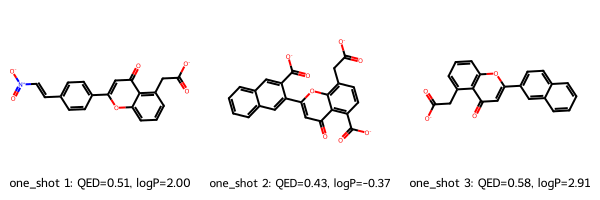
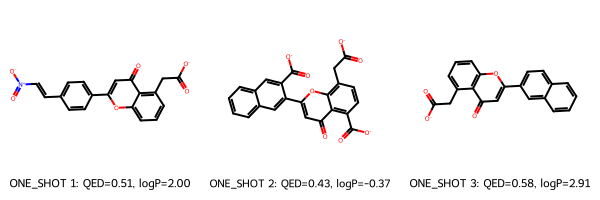
made summary tables, added HL data

Changed region(s): [[0.0, 0.87, 0.99, 0.96]]

diff --git a/code/HL_finalist_images.py b/code/HL_finalist_images.py
@@ -19,12 +19,28 @@ def scoring_function(smiles: str):
 
   return qed, alogp, mol
 
+## order openai, anthropic, gemini for zero and one shots
+
+zero_shot = ['CN(C)c1ccc(/C=C/C=C/C(=C(C#N)C#N))cc1',
+             'C1=C(S1)C2=C(SC(=C2)S3CCCS3)S4CCCS4',
+             'c1ccc2cc3cc4cc5cc6cc7ccccc7cc6cc5cc4cc3cc2c1']
+
 one_shot = ['N#CC=CCc1ccc2cccc3ccc1c23',
             'c1cc2ccc3cccc4cccc5cccc(c1)c2c3c45',
             'c1ccc2cc3cc4cc5ccccc5cc4cc3cc2c1'
                    ]
 
-#claude = []
+ant_smiles = [
+        'c1(OC)c(N(C)c1c(N(C(C)C)C)c(C#N)c(C(=O)C#N)cc1)cc2cc(C(=O)C(C#N)(C#N))ccc2c1',
+        'c1(OC)c(N(C)c1cc(C#N)c(C(=O)C#N)cc1)cc2cc(C(=O)C(C#N)(C#N))cc(N(C(C)C)C)c2c1',
+        'c1(OC)c(N(C)c1cc(C#N)c(C(=O)C#N)cc1)cc2cc(C(=O)C(C#N)(C#N))cc(OC)c2c1'
+]
+
+corrected_ant_smiles = [
+        'c1(OC)c(N(C)c6c(N(C(C)C)C)c(C#N)c(C(=O)C#N)cc6)cc2cc(C(=O)C(C#N)(C#N))ccc2c1',
+        'c1(OC)c(N(C)c6cc(C#N)c(C(=O)C#N)cc6)cc2cc(C(=O)C(C#N)(C#N))cc(N(C(C)C)C)c2c1',
+        'c1(OC)c(N(C)c6cc(C#N)c(C(=O)C#N)cc6)cc2cc(C(=O)C(C#N)(C#N))cc(OC)c2c1'
+]
              
 gemini3flash = [
         'c1ccc2cc3cc4c(S([NH3+]))c(S([NH3+]))c5c(S([NH3+]))c(S([NH3+]))c6c(S([NH3+]))c(S([NH3+]))c7c([N+](=O)[O-])cc8cc9cc%10ccccc%10cc9cc8cc7cc6cc5cc4cc3cc2c1',
@@ -37,9 +53,13 @@ gpt5p2 = [
         'c1([N+](=O)[O-])ccc2c(C#C(C#N))c3c(C#C(C#N))cc(C#CC#N)c(C#CC#N)c3c(C#Cc7ccc8cc9ccccc9cc8c7)c2c1'
 ]
 
+
+
 hash_lists = {
+    'ZERO_SHOT': zero_shot,
     'one_shot': one_shot,
-    #'ANTHROPIC': claude,
+    'ANTHROPIC': ant_smiles,
+    'Corrected-ANTHROPIC': corrected_ant_smiles,
     'OPENAI': gpt5p2,
     'GEMINI': gemini3flash
 }
@@ -61,5 +81,5 @@ for name, smiles_list in hash_lists.items():
 
 for name, img in zip(hash_lists.keys(), all_imgs):
     print(f'Saving image for {name}')
-    filename = f"../results/HL/finalist_images/{name}_finalists.png"
+    filename = f"../results/HL/HL_finalist_images/{name}_finalists.png"
     img.save(filename)

diff --git a/code/dock_finalist_images.py b/code/dock_finalist_images.py
@@ -19,6 +19,12 @@ def scoring_function(smiles: str):
 
   return qed, alogp, mol
 
+## order openai, anthropic, gemini for zero and one shots
+
+zero_shot = ['CC(C)C[C@H](O)C[C@H](O)CCC(=O)O-c1ccc(cc1)C2(c3ccccc3)Cc4ccccc42',
+             'c1c(C(O)CC(O)C(=O)O)c(cc(n1)C(C)C)C(=O)Nc1ccccc1C(C)C',
+             'CC(C)n1c(C2=CC=C(F)C=C2)c(C2=CC3=CC=CC=C3C=C2)c(\C=C\[C@H](O)C[C@H](O)CC(=O)O)c1']
+
 one_shot = [
                    'O=c1cc(-c2ccc(C=C([N+](=O)[O-]))cc2)oc2cccc(C(C(=O)[O-]))c12',
                    'O=c1cc(-c2cc3ccccc3cc2C(=O)[O-])oc2c(C(C(=O)[O-]))ccc(C(=O)[O-])c12',
@@ -40,7 +46,8 @@ gemini3flash = ['O=c1cc(-c2cc(F)c(F)cc2)oc2cc(F)cc(CC(=O)[O-])c12',
               'O=c1cc(-c2cc(F)c(F)cc2)oc2cccc(CC(=O)[O-])c12']
 
 hash_lists = {
-    'one_shot': one_shot,
+    'ZERO_SHOT': zero_shot,
+    'ONE_SHOT': one_shot,
     'ANTHROPIC': claude,
     'OPENAI': gpt5p2,
     'GEMINI': gemini3flash
@@ -63,5 +70,5 @@ for name, smiles_list in hash_lists.items():
 
 for name, img in zip(hash_lists.keys(), all_imgs):
     print(f'Saving image for {name}')
-    filename = f"../results/finalist_images/{name}_finalists.png"
+    filename = f"../results/dock_finalist_images/{name}_finalists.png"
     img.save(filename)

diff --git a/code/HL_verify.py b/code/HL_verify.py
@@ -86,9 +86,23 @@ gpt_smiles = [
         'c1([N+](=O)[O-])ccc2c(C#C(C#N))c3c(C#C(C#N))cc(C#CC#N)c(C#CC#N)c3c(C#Cc7ccc8cc9ccccc9cc8c7)c2c1'
 ]
 
+ant_smiles = [
+        'c1(OC)c(N(C)c1c(N(C(C)C)C)c(C#N)c(C(=O)C#N)cc1)cc2cc(C(=O)C(C#N)(C#N))ccc2c1',
+        'c1(OC)c(N(C)c1cc(C#N)c(C(=O)C#N)cc1)cc2cc(C(=O)C(C#N)(C#N))cc(N(C(C)C)C)c2c1',
+        'c1(OC)c(N(C)c1cc(C#N)c(C(=O)C#N)cc1)cc2cc(C(=O)C(C#N)(C#N))cc(OC)c2c1'
+]
+
+corrected_ant_smiles = [
+        'c1(OC)c(N(C)c6c(N(C(C)C)C)c(C#N)c(C(=O)C#N)cc6)cc2cc(C(=O)C(C#N)(C#N))ccc2c1',
+        'c1(OC)c(N(C)c6cc(C#N)c(C(=O)C#N)cc6)cc2cc(C(=O)C(C#N)(C#N))cc(N(C(C)C)C)c2c1',
+        'c1(OC)c(N(C)c6cc(C#N)c(C(=O)C#N)cc6)cc2cc(C(=O)C(C#N)(C#N))cc(OC)c2c1'
+]
+
 model_smiles = {
     'gemini_smiles': gemini_smiles,
     'gpt_smiles': gpt_smiles,
+    'ant_smiles': ant_smiles,
+    'corrected_ant_smiles': corrected_ant_smiles
 }
 
 for name, smiles_list in model_smiles.items():
@@ -101,7 +115,7 @@ for name, smiles_list in model_smiles.items():
       score = scoring_function(smile)
       ave += score
       count += 1
-      print(f'{smile} : {score}')
+ #     print(f'{smile} : {score}')
     else:
       print(f'invalid smiles: {smile}')
   print('')

diff --git a/code/GPT_ANT_zero-shot.py b/code/GPT_ANT_zero-shot.py
@@ -28,6 +28,7 @@ sys_message = f'''
 '''
 print('created_prompt')
 first_prompt = 'HMGCR'
+first_prompt = 'Lowest possible HOMO LUMO gap.'
 
 def get_openai_response():
   '''
@@ -59,7 +60,7 @@ for model, name in zip([get_openai_response, get_ant_response], ['OpenAI', 'Anth
   answer = model() 
   print(answer)
 
-  path = "../results/ONE_SHOT/gtp_ant_replies.md"
+  path = "../results/ZERO_SHOT/gtp_ant_replies.md"
   with open(path, 'a', encoding = 'utf-8') as f:
       f.write(f'# {name} =========================================================\n')
       f.write(answer + '\n\n')

diff --git a/tables/summary_tables_images.md b/tables/summary_tables_images.md
@@ -1,0 +1,123 @@
+## AI-assisted molecule design with a taregt of minimizing docking scores for HMGCR calculated by AutoDock Vina
+
+| Model | No. Mols | Low | High | Ave |
+|-------|:-:|:-:|:-:|---|
+| GPT 5.2  | 5 | -7.70 | -6.70 | -7.18 |
+| Claude   | 3 | -8.30 | -6.40 | -7.20 |
+| Gemini   | 2 | -8.10 | -7.90 | -8.00 |
+||||||
+| Deepseek V3.1  | 4 | -7.40 | -7.00 | 7.13 |
+| GPT OSS 120B   | 5 | -7.40 | -6.10 | -6.74 | 
+| GPT OSS 20B    | 4 | -6.90 | -6.00 | -6.43 |
+| Devstral 2     | 5 | -7.20 | -6.70 | -6.92 |
+| Cogito 2.1     | 5 | -8.00 | -6.90 | -7.4 |
+| Nemotron 3 Nano| 2 | -7.50 | -6.90 | -7.20 |
+| Kimi K2        | 5 | -8.30 | -7.00 | -7.78 |
+
+Table 1. Docking Scores (kcal/mol) for zero shot molecules for each model tested. 
+
+| Model | No. Mols | Low | High | Ave |
+|-------|:-:|:-:|:-:|---|
+| GPT 5.2  | 5 | -8.90 | -7.20 | -7.82 |
+| Claude   | 5 | -9.00 | -7.40 | -8.42 |
+| Gemini   | 5 | -9.20 | -7.30 | -8.14 |
+||||||
+| Deepseek V3.1  | 4 | -8.20 | -7.50 | -7.80 |
+| GPT OSS 120B   | 5 | -7.90 | -6.80 | -7.26 | 
+| GPT OSS 20B    | 1 | -7.50 | -7.50 | -7.5 |
+| Devstral 2     | 4 | -8.60 | -7.90 | -8.20 |
+| Cogito 2.1     | 5 | -8.50 | -7.50 | -8.1 |
+| Nemotron 3 Nano| 3 | -9.10 | -7.60 | -8.26 |
+| Kimi K2        | 4 | -7.50 | -6.90 | -7.15 |
+
+Table 2. Docking Scores (kcal/mol) for one shot molecules for each model tested. The highest docking score given in the one-shot dataset was -8.6 kcal/mol.
+
+| Model | Adversary |  No. Mols | Low | High | Ave |
+|-------|:-:|:-:|:-:|:-:|---|
+| GPT 5.2  | Claude  | 2 | -8.90 | -8.90 | -8.90 |
+| Claude   | GPT 5.2 | 5 | -9.90 | -8.10 | -8.96 |
+| Gemini   | Claude  | 5 | -9.10 | -8.90 | -8.98 |
+
+
+Table 3. Docking Scores (kcal/mol) for adversarially designed molecules for each model tested. The highest docking score given in the one-shot dataset was -8.6 kcal/mol.
+
+| Model | design mode | No. Mols | Low | High | Ave |
+|-------|:-:|:-:|:-:|:-:|---|
+| GPT 5.2  | zero-shot | 5 | -7.70 | -6.70 | -7.18 |
+| GPT 5.2  | one-shot  | 5 | -8.90 | -7.20 | -7.82 |
+| GPT 5.2  | w/ Claude | 2 | -8.90 | -8.90 | -8.90 |
+||||||
+| Claude   | zero-shot | 3 | -8.30 | -6.40 | -7.20 |
+| Claude   | one-shot  | 5 | -9.00 | -7.40 | -8.42 |
+| Claude   | w/ GPT 5.2| 5 | -9.90 | -8.10 | -8.96 |
+||||||
+| Gemini   | zero-shot | 2 | -8.10 | -7.90 | -8.00 |
+| Gemini   | one-shot  | 5 | -9.20 | -7.30 | -8.14 |
+| Gemini   | w/ Claude | 5 | -9.10 | -8.90 | -8.98 |
+
+
+Table 4. Docking Scores (kcal/mol) progression for zero-shot, 
+one-shot, and adversarially designed molecules for each model tested. The highest docking score given in the one-shot dataset was -8.6 kcal/mol.
+
+### Lipinski properties for AI-designed molecules
+
+## AI-assisted molecule design with a taregt of minimizing the HOMO-LUMO gap as calculated with CAM-B3LYP/sto-3g in PySCF. Molecule structure optimized with MMFF.
+
+| Model | No. Mols | High | Low | Ave |
+|-------|:-:|:-:|:-:|---|
+| GPT 5.2  | 5 | 7.57 | 5.04 | 6.17 |
+| Claude   | 5 | 8.62 | 2.75 | 5.75 |
+| Gemini   | 3 | 4.23 | 3.42 | 3.75 |
+||||||
+| Deepseek V3.1  | 3 | 9.31 | 3.42 | 6.32 |
+| GPT OSS 120B   | 3 | 6.91 | 2.21 | 4.12 | 
+| GPT OSS 20B    | 2 | 6.51 | 5.75 | 6.12 |
+| Devstral 2     | 2 | 5.58 | 4.62 | 5.10 |
+| Cogito 2.1     | 5 | 7.77 | 5.84 | 6.54 |
+| Nemotron 3 Nano| 0 | - | - | - |
+| Kimi K2        | 4 | 5.00 | 3.79 | 4.50 |
+
+Table 5. HOMO-LUMO gaps (eV) for zero shot molecules for each model tested. 
+
+| Model | No. Mols | High | Low | Ave |
+|-------|:-:|:-:|:-:|---|
+| GPT 5.2  | 1 | 7.08 | 7.08 | 7.08 |
+| Claude   | 4 | 7.34 | 2.46 | 5.95 |
+| Gemini   | 5 | 5.95 | 4.26 | 5.26 |
+||||||
+| Deepseek V3.1  | 1 | 3.46 | 3.46 | 3.46 |
+| GPT OSS 120B   | 0 | - | - | - | 
+| GPT OSS 20B    | 4 | 7.55 | 4.76 | 6.27 |
+| Devstral 2     | 3 | 5.92 | 5.82 | 5.87 |
+| Cogito 2.1     | 2 | 7.57 | 3.48 | 5.53 |
+| Nemotron 3 Nano| 1 | 9.50 | 9.50 | 9.50 |
+| Kimi K2        | 5 | 7.52 | 5.69 | 6.10 |
+
+Table 6. HOMO-LUMO gaps (eV) for one shot molecules for each model tested. The lowest HOMO-LUMO gap given in the one-shot dataset was 5.579 eV.
+
+| Model | Adversary |  No. Mols | High | Low | Ave |
+|-------|:-:|:-:|:-:|:-:|---|
+| GPT 5.2  | Claude  | 3 | 3.95 | 3.91 | 3.93 |
+| Claude   | GPT 5.2 | 3 | 3.10 | 2.98 | 3.06 |
+| Claude*   | GPT 5.2 | 3 | 6.49 | 6.03 | 6.28 |
+| Gemini   | Claude  | 2 | 1.49 | 1.39 | 1.44 |
+
+Table 7. HOMO-LUMO gaps (eV) for adversarially designed molecules for each model tested. TThe lowest HOMO-LUMO gap given in the one-shot dataset was 5.579 eV.
+* correction for the SMILES error in the Claude session.
+
+| Model | design mode | No. Mols | High | Low | Ave |
+|-------|:-:|:-:|:-:|:-:|---|
+| GPT 5.2  | zero-shot | 5 | 7.57 | 5.04 | 6.17 |
+| GPT 5.2  | one-shot  | 1 | 7.08 | 7.08 | 7.08 |
+| GPT 5.2  | w/ Claude | 3 | 3.95 | 3.91 | 3.93 |
+||||||
+| Claude   | zero-shot | 5 | 8.62 | 2.75 | 5.75 |
+| Claude   | one-shot  | 4 | 7.34 | 2.46 | 5.95 |
+| Claude   | w/ GPT 5.2| 3 | 3.10 | 2.98 | 3.06 |
+||||||
+| Gemini   | zero-shot | 3 | 4.23 | 3.42 | 3.75 |
+| Gemini   | one-shot  | 5 | 5.95 | 4.26 | 5.26 |
+| Gemini   | w/ Claude | 2 | 1.49 | 1.39 | 1.44 |
+
+Table 4. HOMO-LUMO gap (eV) progression for zero-shot, 
+one-shot, and adversarially designed molecules for each model tested. The lowest HOMO-LUMO gap given in the one-shot dataset was 5.579 eV.
